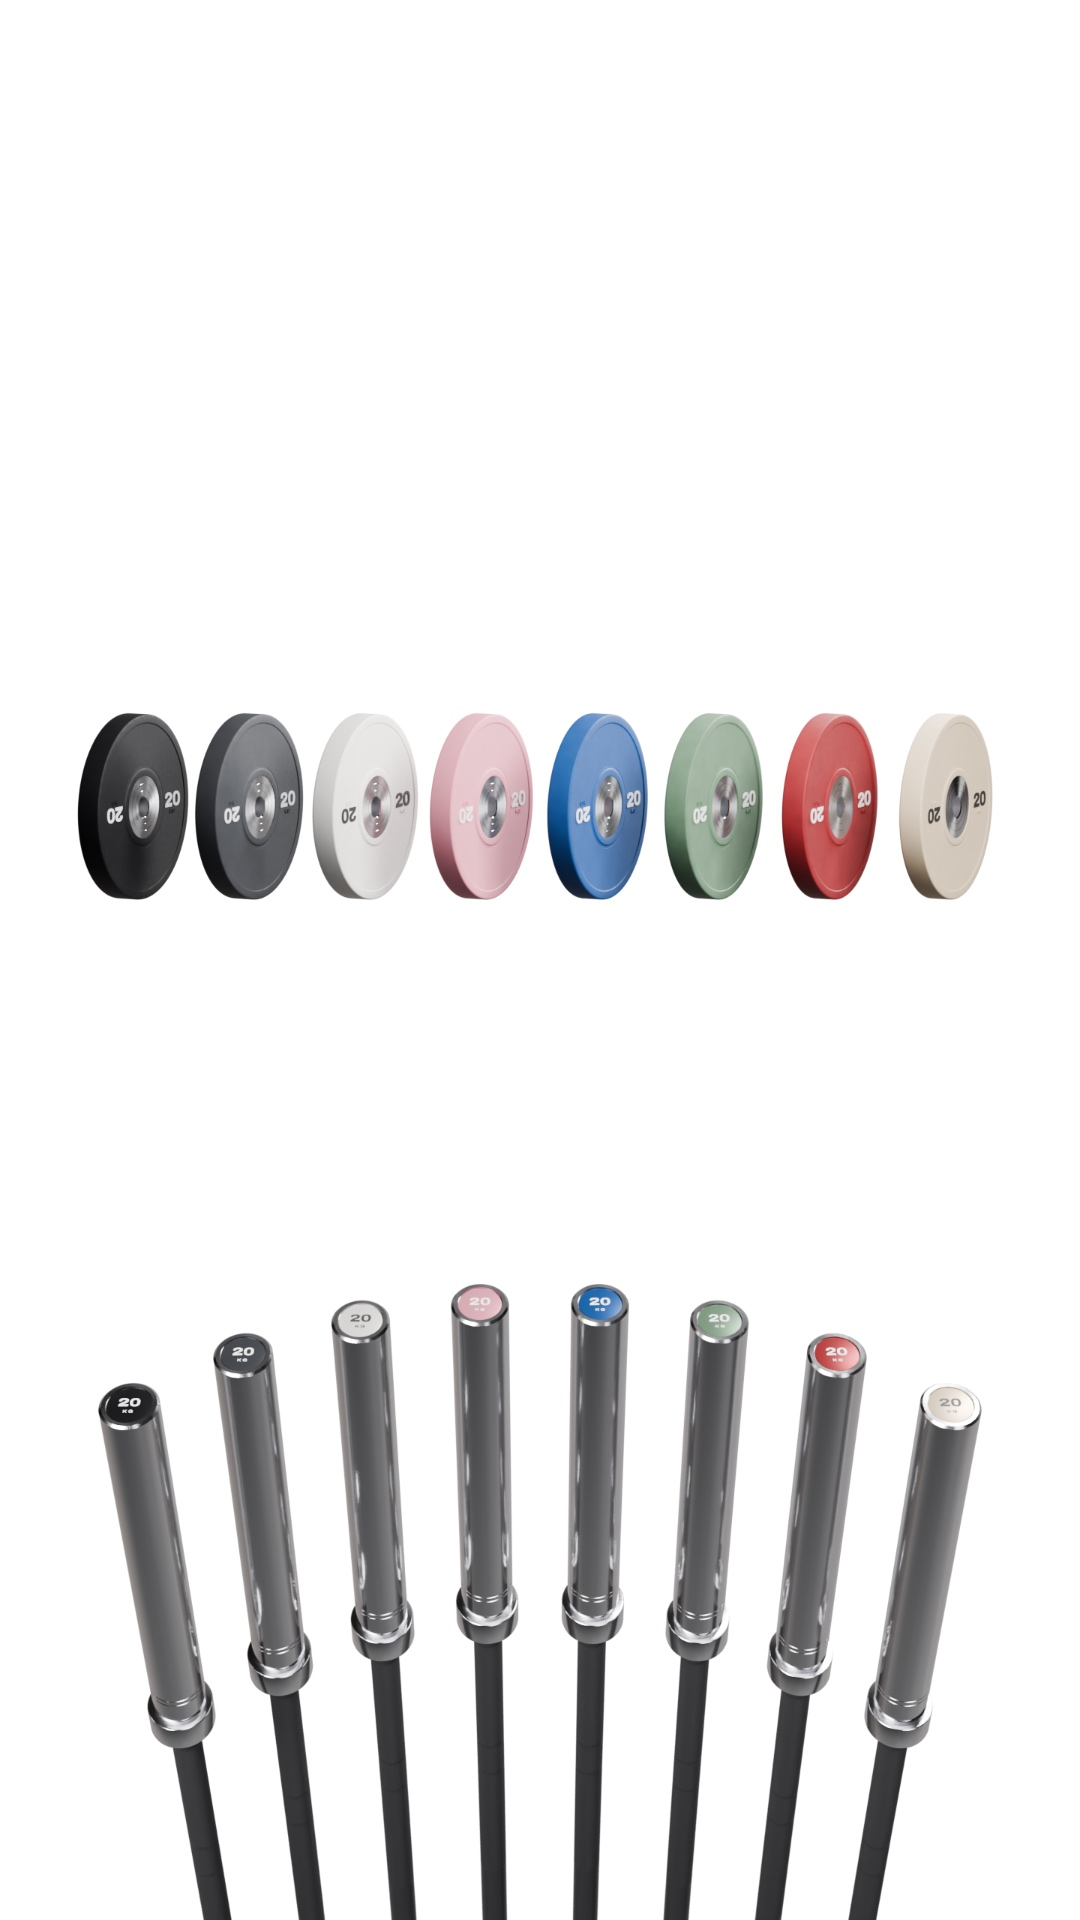
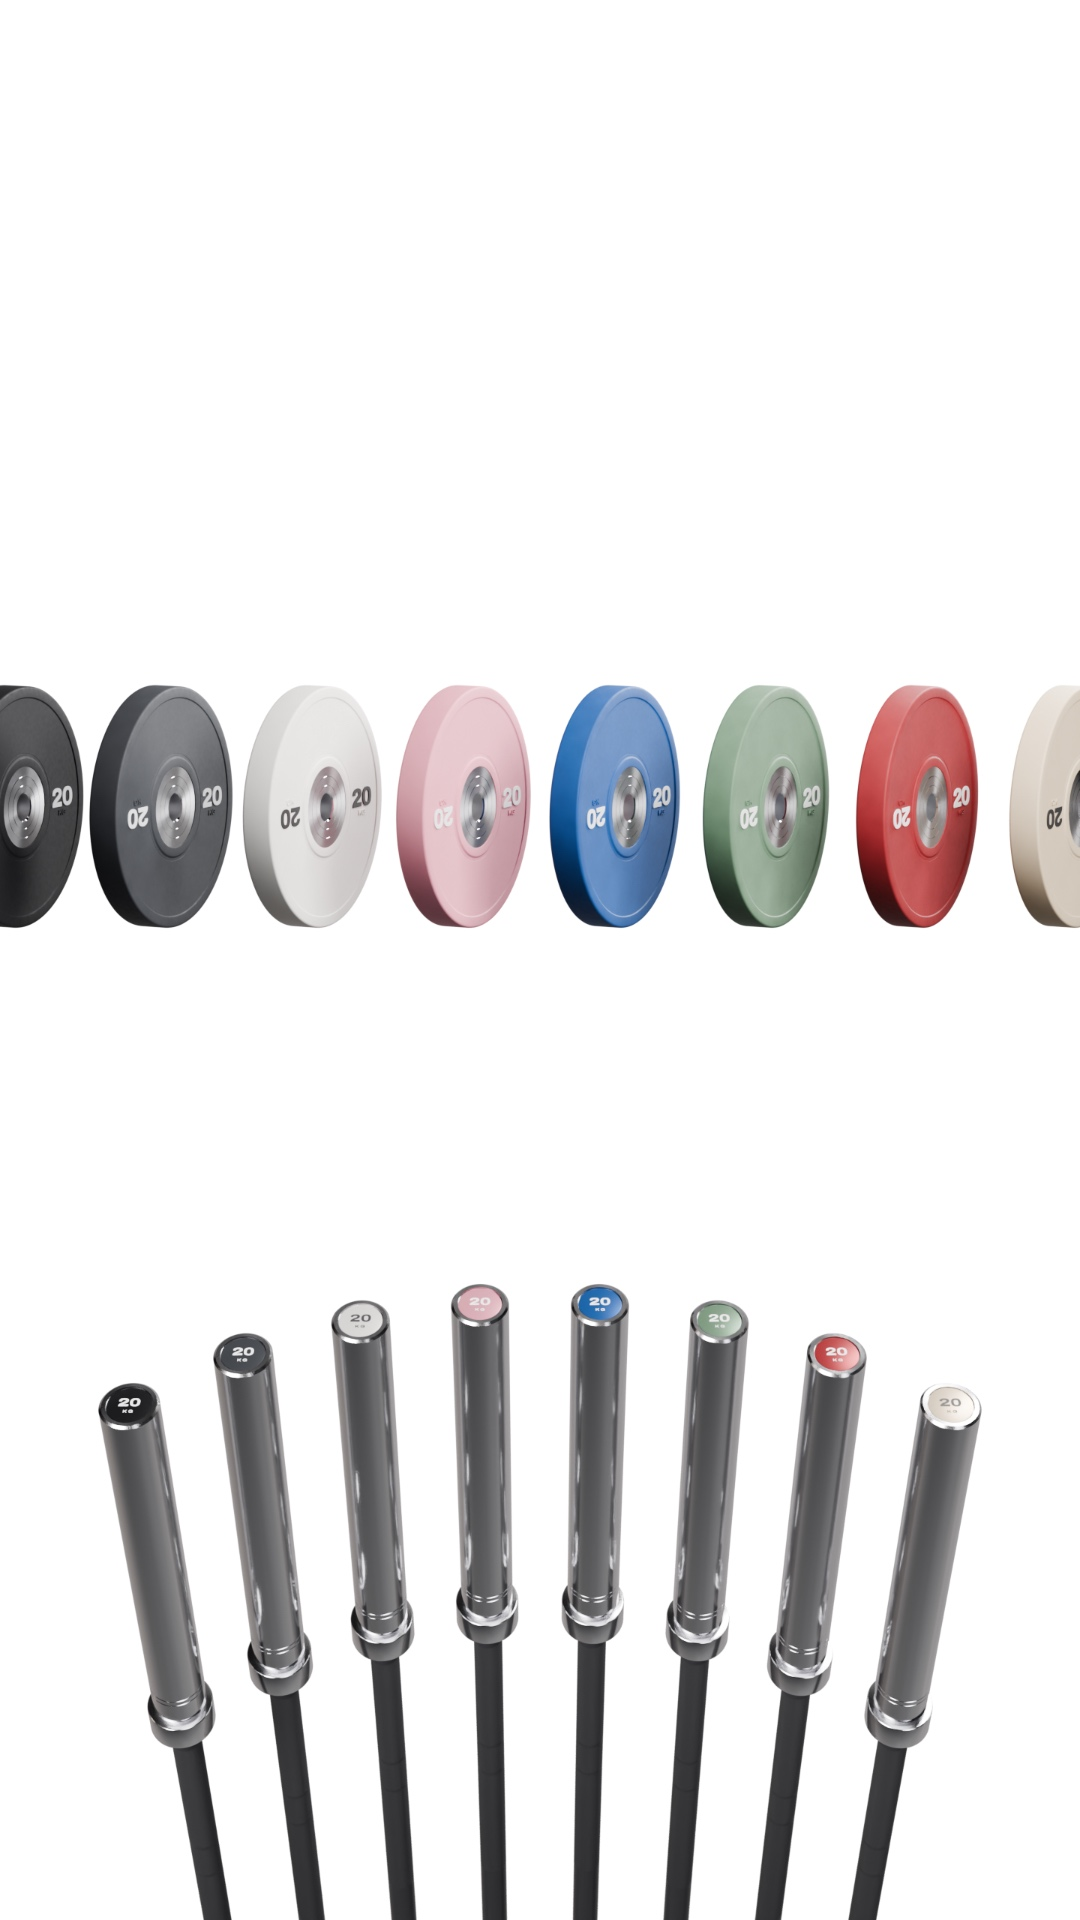
Story 1 : les disques plus grands, la rangée déborde sur les côtés
- Les disques grandissent d'environ 30 % : la rangée fait 112 % de la
  largeur de l'écran, le premier et le dernier disque sont coupés.

Claude-Session: https://claude.ai/code/session_01D9n9ZZi5fk6puDFh7TyVoC

Changed region(s): [[0.0, 0.3438, 1.0, 0.5]]

diff --git a/3d/outils/blender/stories.py b/3d/outils/blender/stories.py
@@ -153,7 +153,7 @@ def s1d():  # the plates standing in a straight row, all turned the same way, a 
         e = plate(c, name='d%d' % i)                     # the face turned to the right, the rim seen on the left (the reference)
         e.matrix_world = Matrix.Translation(((i - 3.5) * step, 0.0, 0.0)) @ Matrix.Rotation(math.radians(roll), 4, 'Y') @ Matrix.Rotation(math.radians(yaw), 4, 'Z')
     story()
-    width = 8 * step / 0.86                                  # the row fills 86 % of the width
+    width = 8 * step / float(ARGS.get('fill', 1.12))         # the row overflows the screen a little on both sides (the user, 22/11)
     dist = width / 2 / (10.125 / 135)                         # lens 135 (a flat perspective), the width of a 9:16 sensor is 36 x 9 / 16 mm
     el = math.radians(7)
     camera((0.0, -dist * math.cos(el), dist * math.sin(el)), (0.0, 0.0, 0.0), lens=135, fstop=32, shift_y=-0.08)

diff --git a/Lis-moi.md b/Lis-moi.md
@@ -38,7 +38,7 @@ Les prototypes :
 
 | Story | Le contenu | Les prototypes |
 |---|---|---|
-| 1 | les barres en arc, et les disques alignés au-dessus, tournés de 64° (la face visible), un petit espace entre eux | une (22/11, d'après ta référence) |
+| 1 | les barres en arc, et les disques alignés au-dessus, tournés de 64° (la face visible), un petit espace entre eux, la rangée qui déborde un peu de l'écran | une (22/11, d'après ta référence) |
 | 2 | les haltères ronds, sur tout l'écran | a en colonne, b les faces, c la gamme de 5 à 40 kg |
 | 3 | l'haltère à disques | a les disques, b l'éclaté, c la paire, d les huit coloris |
 | 4 | les disques vinyle et les pinces, en colonne | ton choix |
